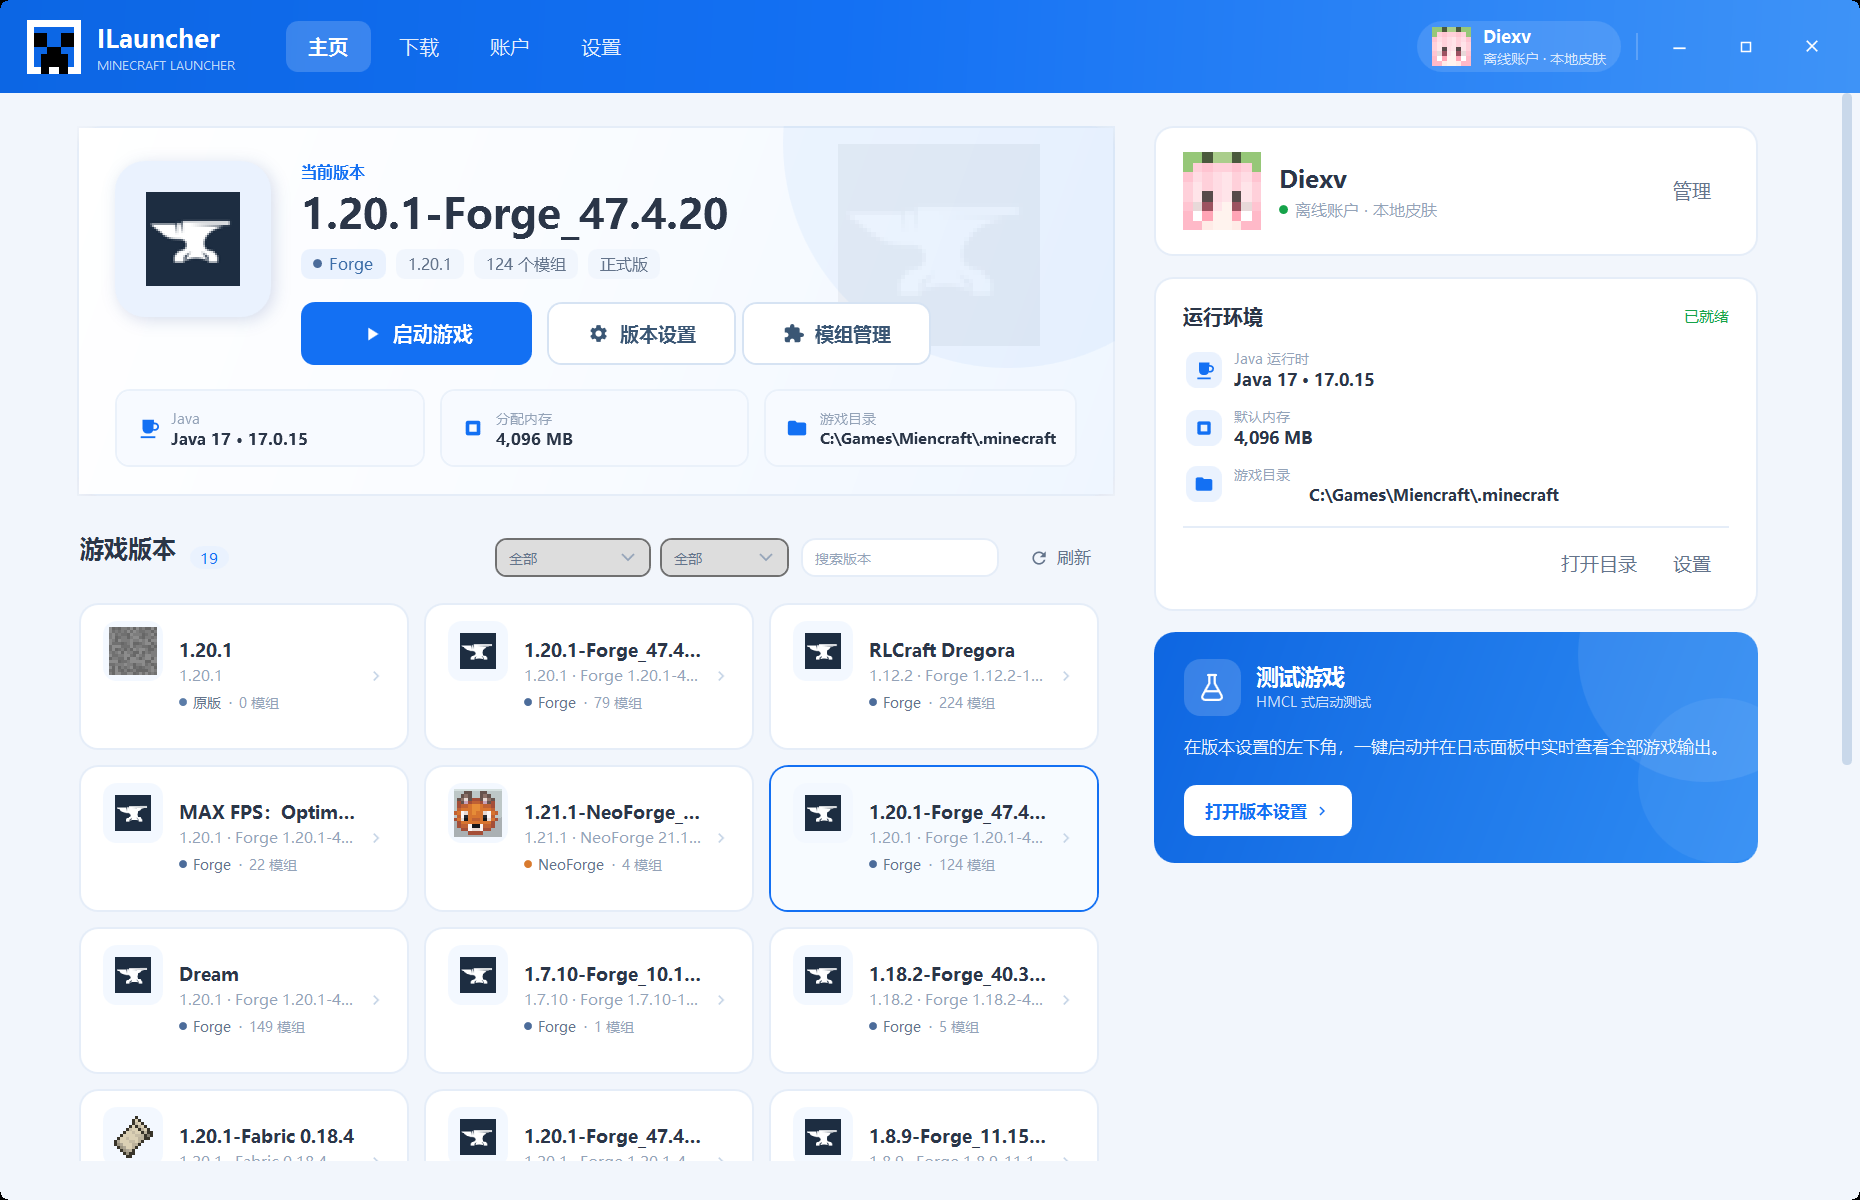
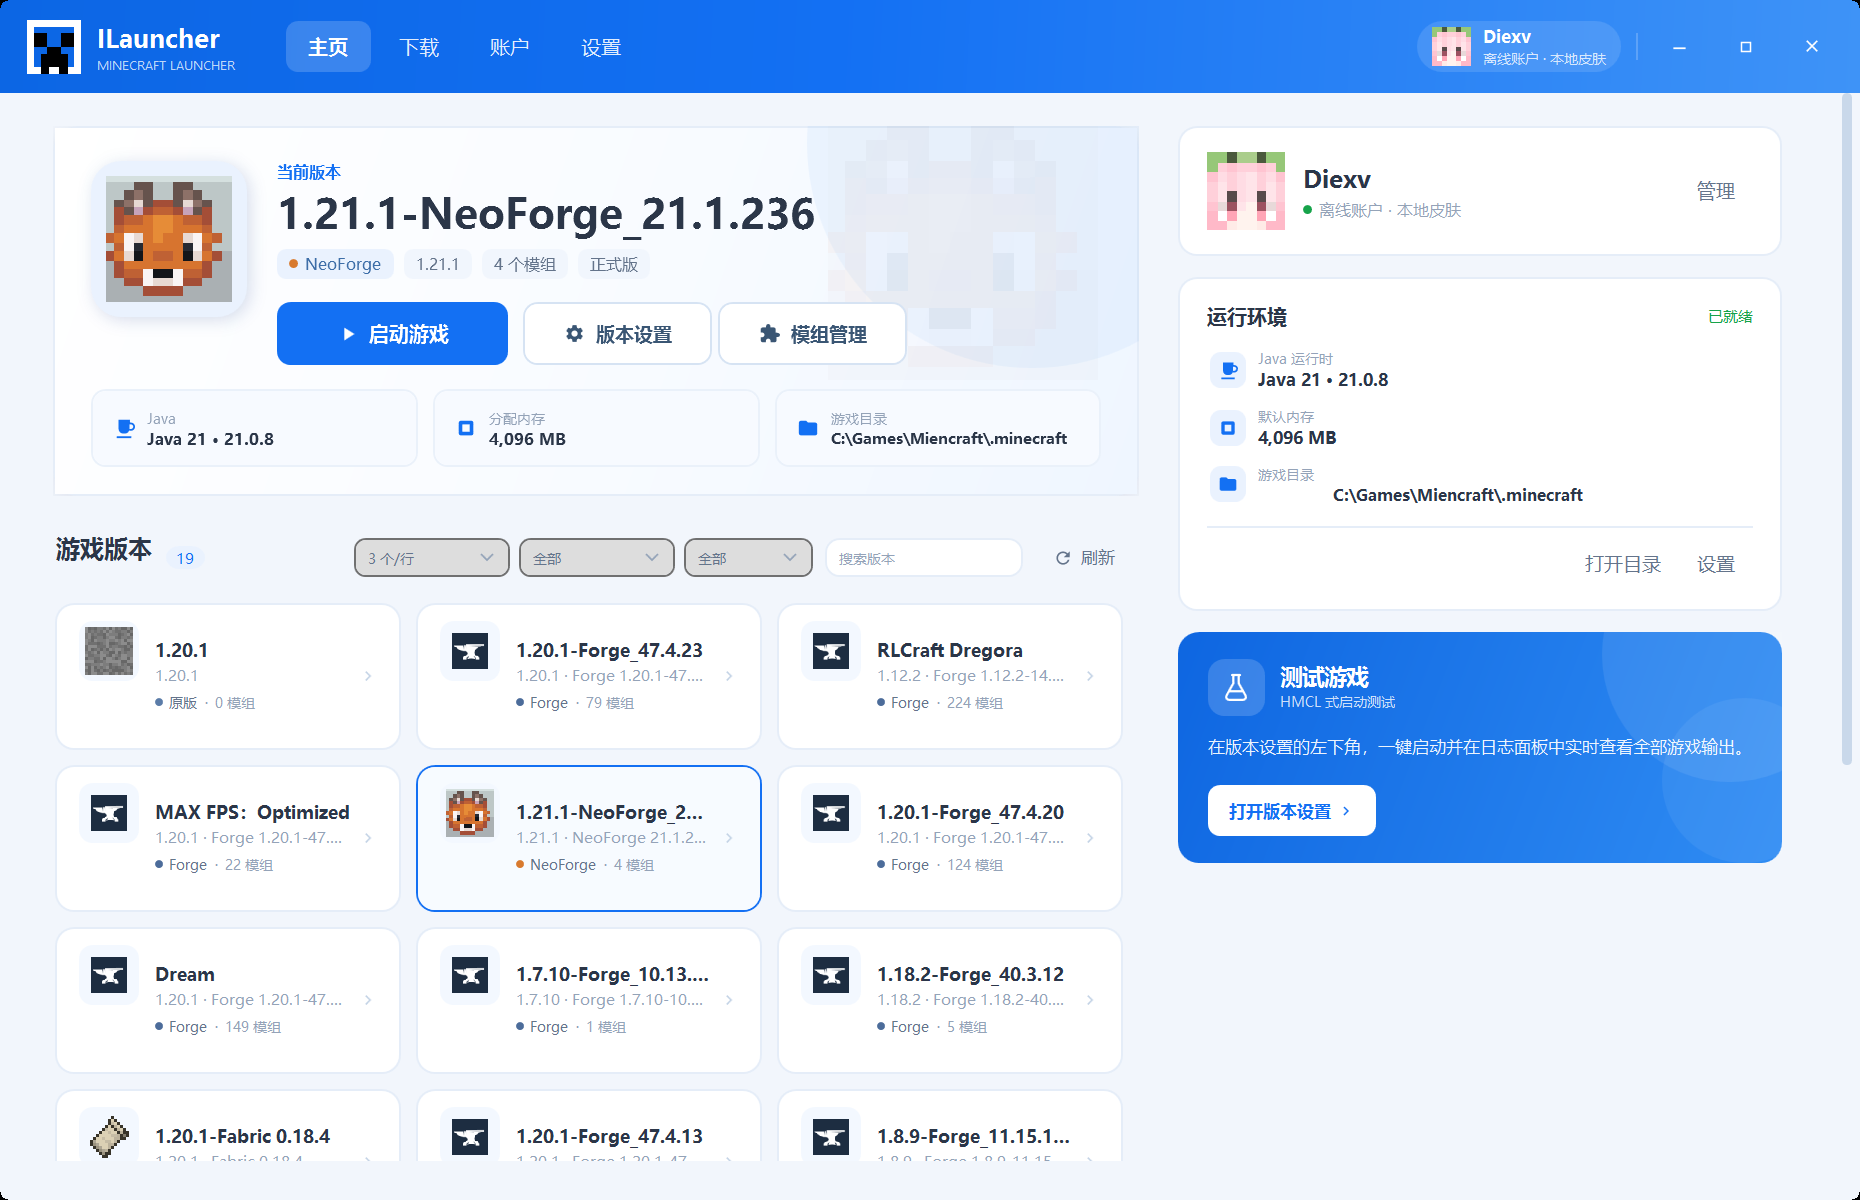
Add manual home version grid layout setting

diff --git a/src/ILauncher/Views/HomeView.xaml b/src/ILauncher/Views/HomeView.xaml
@@ -21,7 +21,6 @@
         </Style>
 
         <Style x:Key="VersionCardItem" TargetType="ListBoxItem">
-            <Setter Property="Width" Value="220" />
             <Setter Property="Height" Value="98" />
             <Setter Property="Margin" Value="0,0,10,10" />
             <Setter Property="Padding" Value="0" />
@@ -306,6 +305,11 @@
                         </StackPanel>
                         <StackPanel Orientation="Horizontal" HorizontalAlignment="Right" VerticalAlignment="Center">
                             <ComboBox Style="{StaticResource HomeFilterCombo}" Width="104" Margin="0,0,6,0"
+                                      ItemsSource="{Binding HomeLayoutOptions}"
+                                      SelectedItem="{Binding SelectedHomeLayout, Mode=TwoWay}"
+                                      ToolTip="版本排列方式；修改后会保存"
+                                      AutomationProperties.Name="版本布局" />
+                            <ComboBox Style="{StaticResource HomeFilterCombo}" Width="104" Margin="0,0,6,0"
                                       ItemsSource="{Binding HomeLoaderFilters}"
                                       SelectedItem="{Binding SelectedHomeLoader, Mode=TwoWay}"
                                       ToolTip="按加载器筛选"
@@ -340,10 +344,10 @@
                     <ListBox x:Name="VersionList" ItemsSource="{Binding FilteredInstances}" SelectedItem="{Binding SelectedInstance, Mode=TwoWay}"
                              Style="{StaticResource CleanListBox}" ScrollViewer.VerticalScrollBarVisibility="Disabled"
                              ItemContainerStyle="{StaticResource VersionCardItem}" MouseDoubleClick="VersionList_MouseDoubleClick"
-                             HorizontalContentAlignment="Left">
+                             HorizontalContentAlignment="Stretch">
                         <ListBox.ItemsPanel>
                             <ItemsPanelTemplate>
-                                <WrapPanel />
+                                <UniformGrid Columns="{Binding HomeVersionsPerRow}" />
                             </ItemsPanelTemplate>
                         </ListBox.ItemsPanel>
                         <ListBox.ItemTemplate>

diff --git a/src/ILauncher/ViewModels/MainViewModel.cs b/src/ILauncher/ViewModels/MainViewModel.cs
@@ -21,6 +21,8 @@ public sealed class MainViewModel : ObservableObject
     private string _instanceSearch = "";
     private DownloadFilterOption? _selectedHomeLoader;
     private DownloadFilterOption? _selectedHomeType;
+    private DownloadFilterOption? _selectedHomeLayout;
+    private int _homeVersionsPerRow = 3;
     private string _rootPath = "";
     private string _selectedJavaText = "检测中…";
     private bool _isBusy;
@@ -97,6 +99,16 @@ public sealed class MainViewModel : ObservableObject
         };
         _selectedHomeLoader = HomeLoaderFilters[0];
         _selectedHomeType = HomeTypeFilters[0];
+        HomeLayoutOptions = new ObservableCollection<DownloadFilterOption>
+        {
+            new() { Key = "1", Title = "列表 · 1 个/行" },
+            new() { Key = "2", Title = "2 个/行" },
+            new() { Key = "3", Title = "3 个/行", IsSelected = true },
+            new() { Key = "4", Title = "4 个/行" }
+        };
+        _homeVersionsPerRow = Math.Clamp(SettingsService.Settings.HomeVersionsPerRow, 1, 4);
+        _selectedHomeLayout = HomeLayoutOptions.First(option => option.Key == _homeVersionsPerRow.ToString());
+        SelectSingleFilter(HomeLayoutOptions, _selectedHomeLayout);
 
         _currentPage = this;
         GoHomeCommand = new RelayCommand(GoHome);
@@ -162,6 +174,7 @@ public sealed class MainViewModel : ObservableObject
     public ObservableCollection<GameInstance> FilteredInstances { get; }
     public ObservableCollection<DownloadFilterOption> HomeLoaderFilters { get; }
     public ObservableCollection<DownloadFilterOption> HomeTypeFilters { get; }
+    public ObservableCollection<DownloadFilterOption> HomeLayoutOptions { get; }
     public ObservableCollection<JavaInfo> JavaRuntimes { get; }
 
     public object? CurrentPage
@@ -258,6 +271,40 @@ public sealed class MainViewModel : ObservableObject
 
             SelectSingleFilter(HomeTypeFilters, value);
             ApplyInstanceFilter();
+        }
+    }
+
+    public DownloadFilterOption? SelectedHomeLayout
+    {
+        get => _selectedHomeLayout;
+        set
+        {
+            if (!SetProperty(ref _selectedHomeLayout, value) || value == null)
+            {
+                return;
+            }
+
+            SelectSingleFilter(HomeLayoutOptions, value);
+            if (int.TryParse(value.Key, out var columns))
+            {
+                HomeVersionsPerRow = columns;
+            }
+        }
+    }
+
+    public int HomeVersionsPerRow
+    {
+        get => _homeVersionsPerRow;
+        set
+        {
+            var columns = Math.Clamp(value, 1, 4);
+            if (!SetProperty(ref _homeVersionsPerRow, columns))
+            {
+                return;
+            }
+
+            SettingsService.Settings.HomeVersionsPerRow = columns;
+            SettingsService.Save();
         }
     }
 

diff --git a/src/ILauncher.Core/Services/SettingsService.cs b/src/ILauncher.Core/Services/SettingsService.cs
@@ -25,6 +25,7 @@ public sealed class LauncherSettings
     public string MicrosoftUuid { get; set; } = "";
     public string JavaPath { get; set; } = "";
     public int MemoryMb { get; set; } = 4096;
+    public int HomeVersionsPerRow { get; set; } = 3;
     public int WindowWidth { get; set; } = 1280;
     public int WindowHeight { get; set; } = 720;
     public string LastInstance { get; set; } = "";

diff --git a/README.md b/README.md
@@ -86,7 +86,7 @@ $env:MS_CLIENT_ID = "你的 Azure Application (client) ID"
 
 - 在版本概览的「快捷操作 → 更换本地图标」中选择 PNG，图标保存到 `versions\<版本>\icon.png`，与 PCL 的版本本地图标兼容；「恢复默认图标」会删除它。
 - 导入 `.mrpack` 时自动读取根目录 `icon.png`、`pack.png`，以及 `overrides/`、`client-overrides/` 中的 `icon.png`，复制为对应版本的本地图标。
-- 主页版本列表支持按 **加载器（原版/Forge/Fabric/NeoForge/Quilt/OptiFine）**、**正式版/快照/旧版** 和版本名筛选；加载器和类型使用下拉菜单，筛选控件固定在同一行标题栏中，不会改变列表布局。数量会显示为“筛选结果 / 总数”。
+- 主页版本列表支持按 **加载器（原版/Forge/Fabric/NeoForge/Quilt/OptiFine）**、**正式版/快照/旧版** 和版本名筛选；加载器和类型使用下拉菜单，筛选控件固定在同一行标题栏中，不会改变列表布局。数量会显示为“筛选结果 / 总数”。\n- 版本列表布局只能手动切换：**列表 · 1 个/行**、**2 个/行**、**3 个/行**、**4 个/行**，选择会保存到设置，不会根据版本数量自动变化。
 - 版本卡片、主页大卡、版本页侧栏、概览都会使用本地图标；未设置时按加载器自动使用 **Fabric / Quilt / Forge / NeoForge / OptiFine** 官方徽标，原版使用方块图标。徽标来源见 `Assets/Loaders/README.md`。
 - 模组图标从 jar 内部读取（Fabric/Quilt/Forge/NeoForge 元数据），资源包读取 `pack.png`，存档读取 `icon.png`。
 
@@ -268,6 +268,7 @@ docs/screenshots/            README 截图
 - 模组安装不会自动解析并安装前置依赖；只安装主文件。
 - Forge/NeoForge 走官方安装器，不保证所有版本都能在无界面模式下成功。
 - 启动器自身更新、主题/语言切换等非 Minecraft 功能未实现。
+
 
 
 
